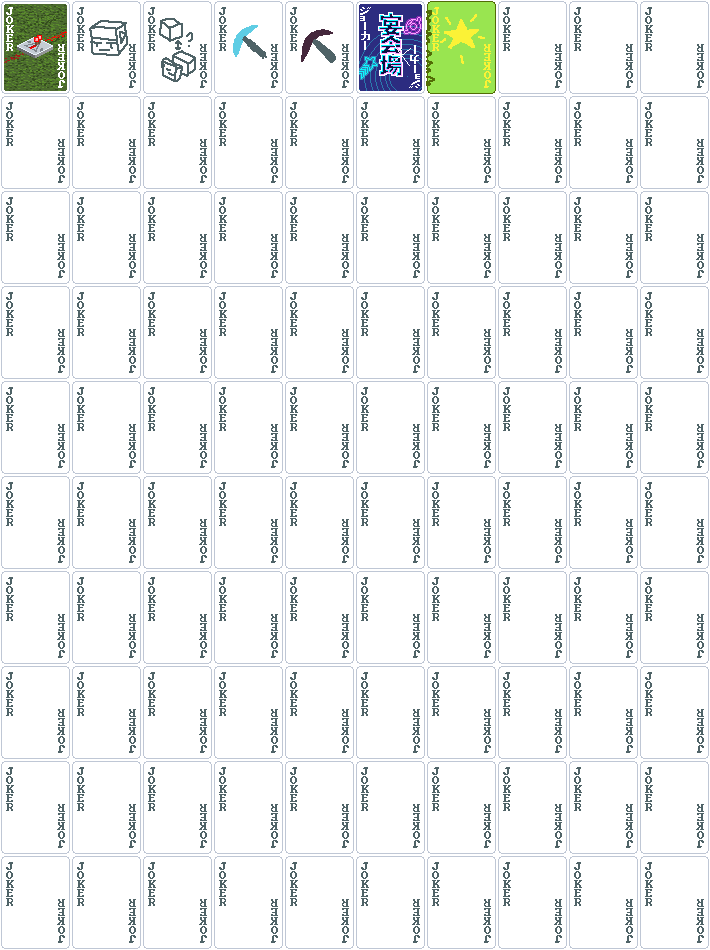
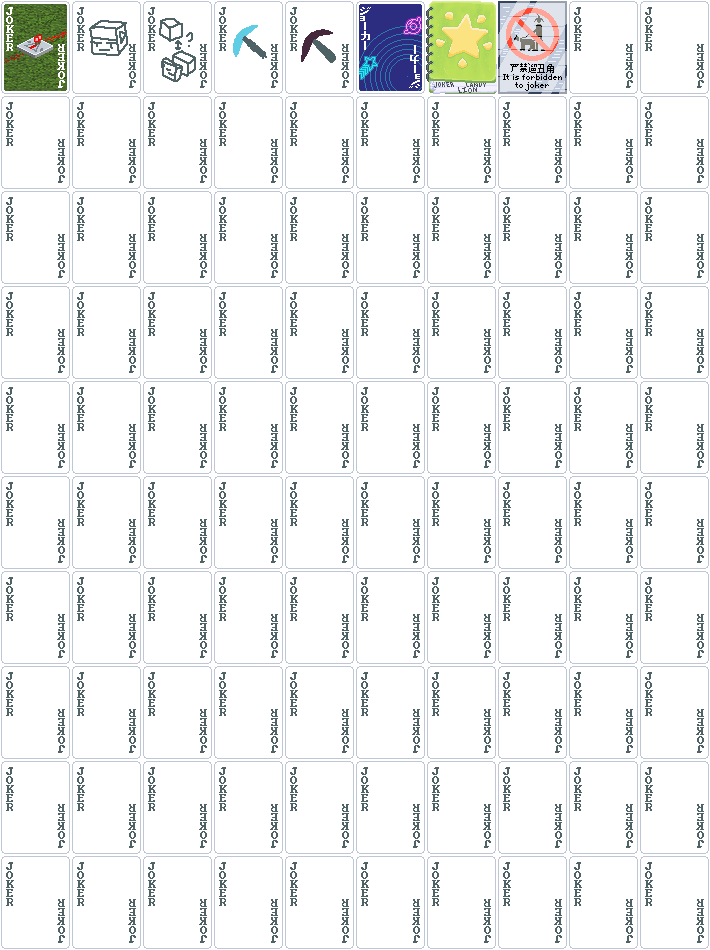
properly implement dog forbidden + maxwell art by larantula_l on discord

Changed region(s): [[0.5268, 0.0, 0.8056, 0.1221]]

diff --git a/README.md b/README.md
@@ -4,4 +4,6 @@ A Balatro mod that adds things I want to add.
 Words from the English Words Repo : https://github.com/dwyl/english-words
 Filtered using the Profanity List here : https://github.com/dsojevic/profanity-list
 
+Maxwell's Notebook sprite by larantula_l on Discord
+
 Assets (Music/Sounds/Graphics/etc.) are licensed under CC-BY-NC-SA 4.0, Code is licensed under GPL v3
